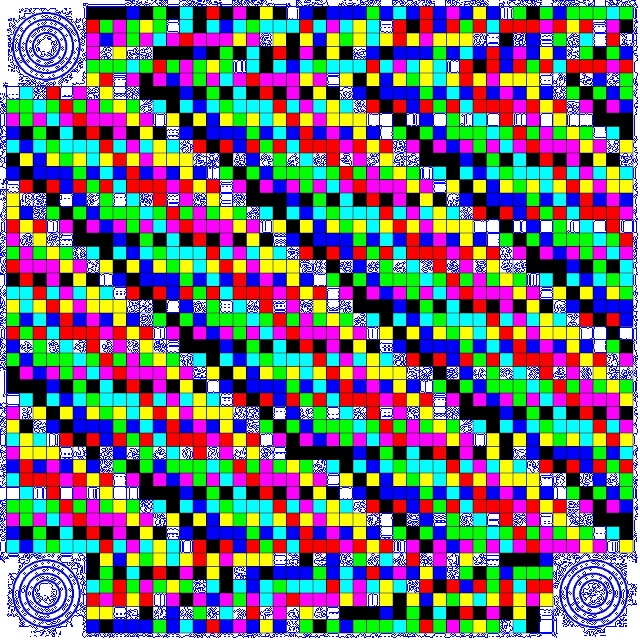
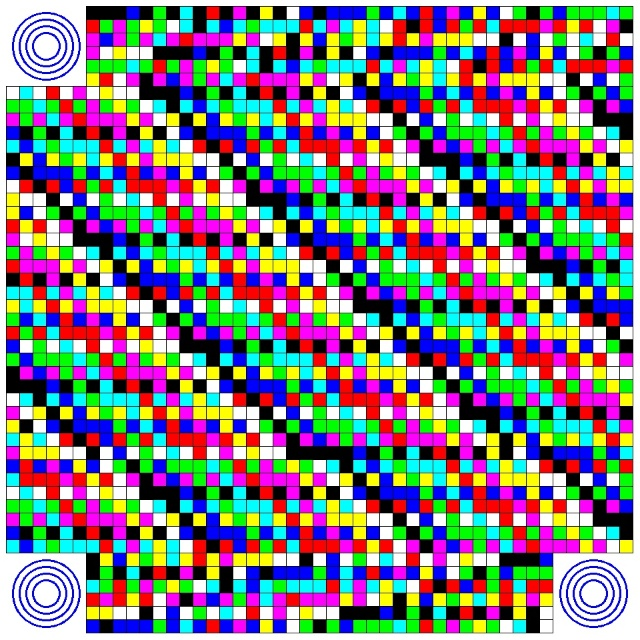
Ass 2: Square up and correct rotation working

diff --git a/main.cpp b/main.cpp
@@ -21,7 +21,8 @@ char encodingarray[64] = { ' ','a','b','c','d','e','f','g','h','i','j','k','l','
  * g++ -std=c++11 camera_with_fps.cpp -o camera_with_fps `pkg-config --cflags --libs opencv`
 *********************************************************************************************/
 
-Mat rotate_qt(Mat inImage);
+Mat rotate_qr(Mat inImage);
+String read_qr(Mat inImage);
 int getMaxAreaContourId(vector <vector<cv::Point>> contours);
 
 Mat frame;//, image;
@@ -70,8 +71,11 @@ int main(int argc, char** argv)
 			return 1;
 		}
 
-		Mat rotatedImage = rotate_qt(image);
+		Mat rotatedImage = rotate_qr(image);
 		imwrite(savePath[i], rotatedImage);
+		String readData = read_qr(rotatedImage);
+
+		cout << "Read data: " << readData << endl;
 		waitKey(0);
 	}
 	
@@ -122,7 +126,7 @@ int main(int argc, char** argv)
 	}
 }
 
-Mat rotate_qt(Mat inImage) {
+Mat rotate_qr(Mat inImage) {
 	Mat workingImage;
 	resize(inImage, workingImage, Size(640, 640));
 	cvtColor(workingImage, workingImage, COLOR_BGR2HSV);
@@ -141,7 +145,6 @@ Mat rotate_qt(Mat inImage) {
 
 	RotatedRect outline = minAreaRect(contours[largest]);
 	Mat M = getRotationMatrix2D(Point(inImage.cols/2, inImage.rows/2), outline.angle, 1);
-	Mat testImage;
 	warpAffine(inImage, inImage, M, inImage.size(), INTER_LINEAR, BORDER_CONSTANT, Scalar(255, 255, 255));
 
 	// The QR code is squared up by this point, time to crop the square
@@ -162,15 +165,50 @@ Mat rotate_qt(Mat inImage) {
 
 	// Time to work out the final rotation of the image
 	cvtColor(inImage, workingImage, COLOR_BGR2GRAY);
-	imshow("InvertGray", workingImage);
-	findContours(~workingImage, contours, hierarchy, RETR_TREE, CHAIN_APPROX_SIMPLE);
-	largest = getMaxAreaContourId(contours);  // The largest contour will be the QR code
-	drawContours(inImage, contours, largest, Scalar(255, 0, 0), 1);
 
-	Rect FinalQR = boundingRect(contours[largest]); // Get the bounding for the current Qr
-	imshow("Output", inImage);
+	contours.clear();
+	findContours(~workingImage, contours, hierarchy, RETR_TREE, CHAIN_APPROX_SIMPLE);
+
+	largest = getMaxAreaContourId(contours);  // The largest contour will be the QR code
+	//drawContours(inImage, contours, largest, Scalar(255, 0, 0), 1);
+
+	Rect FinalQR = boundingRect(Mat(contours[largest])); // Get the bounding for the current Qr
+
+	// Create a rectangle in each corner
+	Rect topLeft(FinalQR.x, FinalQR.y, 70, 70);
+	Rect topRight(FinalQR.x + FinalQR.width - 70, FinalQR.y, 70, 70);
+	Rect botLeft(FinalQR.x, FinalQR.y + FinalQR.height - 70, 70, 70);
+	Rect botRight(FinalQR.x + FinalQR.width - 70, FinalQR.y + FinalQR.height - 70, 70, 70);
+
+	Scalar means[] = { mean(inImage(topRight)), mean(inImage(topLeft)), mean(inImage(botLeft)), mean(inImage(botRight)) };
+
+	//rectangle(inImage, topLeft, Scalar(0, 255, 0), 2);
+	//rectangle(inImage, topRight, Scalar(0, 255, 0), 2);
+	//rectangle(inImage, botLeft, Scalar(0, 255, 0), 2);
+	//rectangle(inImage, botRight, Scalar(0, 255, 0), 2);
+
+	// Compare the mean pixel values of each corner. The one with the most entropy will be the non-circle corner
+	int entropy[4] = { 0, 0, 0, 0 };
+	for (int i = 0; i < 3; i++) {
+		int med = (means[0][i] + means[1][i] + means[2][i] + means[3][i]) / 4; // Get the median value of the current channel
+		for (int j = 0; j < 4; j++) {
+			entropy[j] += abs(means[j][i] - med); // Get the entropy of the current channel and add it to the total
+		}
+	}
+	const int N = sizeof(entropy) / sizeof(int);
+	int rotationAngle = distance(entropy, max_element(entropy, entropy + N)) * 90;
+	cout << "Rotation: " << rotationAngle << endl;
+	M = getRotationMatrix2D(Point(inImage.cols / 2, inImage.rows / 2), -rotationAngle, 1);
+	warpAffine(inImage, inImage, M, inImage.size(), INTER_LINEAR, BORDER_CONSTANT, Scalar(255, 255, 255));
 
 	return inImage;
+}
+
+String read_qr(Mat inImage)
+{
+	imshow("Input", inImage);
+
+	return String();
 }
 
 int getMaxAreaContourId(vector <vector<cv::Point>> contours) {
@@ -182,6 +220,6 @@ int getMaxAreaContourId(vector <vector<cv::Point>> contours) {
 			maxArea = newArea;
 			maxAreaContourId = j;
 		}
-		return maxAreaContourId;
 	}
+	return maxAreaContourId;
 }
